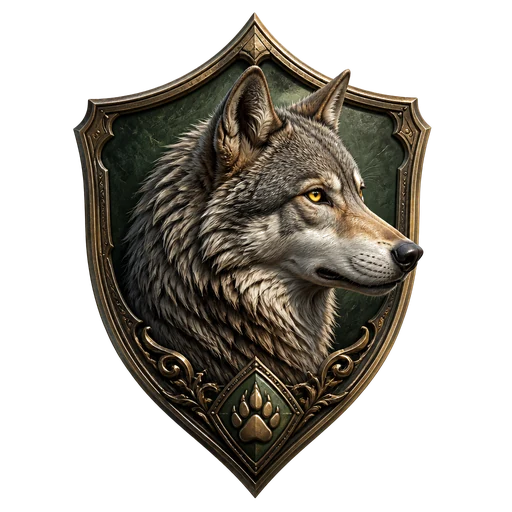
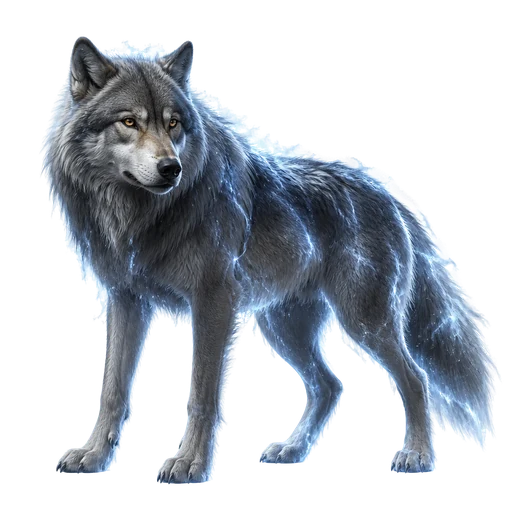
feat(combate): familiares/invocacoes refeitos com 5 variacoes cada
6 invocacoes (summon, familiar, sprite, find-steed, animal-companion,
spiritual-weapon) refeitas como retratos limpos conjurados (brilho eteral, sem
moldura heraldica — o card ja emoldura) + 4 variacoes cada = 30 imagens.
COMBAT_PNG_AVAILABLE[slug]=5 + variation picker estavel por unidade no resolver.

diff --git a/combat2/combate.html b/combat2/combate.html
@@ -1,5 +1,5 @@
 <!DOCTYPE html>
-<!-- SYNCED FROM simuladores/combate.html AT 2026-07-03T19:34:44Z — do not edit directly, edit source -->
+<!-- SYNCED FROM simuladores/combate.html AT 2026-07-03T20:53:30Z — do not edit directly, edit source -->
 
 <!-- SYNCED FROM simuladores/combate.html AT 2026-05-19T02:43:47Z — do not edit directly, edit source -->
 
@@ -17670,8 +17670,10 @@ var COMBAT_PNG_AVAILABLE = {
     'patrulheiro': 1, 'paladino': 1, 'bardo': 1, 'druida': 1, 'monge': 1,
     'feiticeiro': 1, 'bruxo': 1,
     'inimigo': 1, 'boss': 1,
-    'spiritual-weapon': 1, 'summon': 1, 'familiar': 1, 'sprite': 1,
-    'find-steed': 1, 'animal-companion': 1
+    /* Invocações: até 5 variações cada (base + -2..-5). O valor = nº de variações
+       no disco; o resolver escolhe uma estável por unidade. Auditoria 2026-07-03. */
+    'spiritual-weapon': 5, 'summon': 5, 'familiar': 5, 'sprite': 5,
+    'find-steed': 5, 'animal-companion': 5
 };
 /* Per-enemy PNG availability — keyed by SLUGIFIED enemy name.
    2026-06-12 (user "criar todas as imagens"): TODAS as 117 espécies com base
@@ -17951,9 +17953,26 @@ function _combatPortraitHTML(iconId, u, utype) {
            — pedia `.png` mas TODOS os 20 retratos de classe são `.webp` (0 png no
            dir). O onerror sempre disparava → heráldico, tanto no CARD da arena
            quanto no popup. Os retratos de inimigo (acima) já usavam `.webp`. */
-        return '<img class="c-portrait-img" src="' + base2 + slug + '.webp" ' +
-               'alt="" loading="lazy" ' +
-               'onerror="this.onerror=null;this.outerHTML=\'<svg viewBox=\\\'0 0 120 120\\\' aria-hidden=\\\'true\\\'><use href=\\\'#' + iconId + '\\\'/></svg>\'">';
+        /* Invocações: até 5 variações cada (COMBAT_PNG_AVAILABLE[slug]=nº); classes=1
+           (base). Índice ESTÁVEL por unidade (hash do id → sem flicker entre renders).
+           onerror em cascata: variação → base → heráldico (variação faltando nunca
+           quebra). Auditoria 2026-07-03. */
+        var _svc = COMBAT_PNG_AVAILABLE[slug] || 1;
+        var _svIdx = 0;
+        if (_svc > 1 && u) {
+            var _sid = String(u.id || u.uid || u.summonId || u.n || slug);
+            var _sh = 0;
+            for (var _sk = 0; _sk < _sid.length; _sk++) { _sh = ((_sh << 5) - _sh + _sid.charCodeAt(_sk)) | 0; }
+            _svIdx = Math.abs(_sh) % _svc;
+        }
+        var _sBase = base2 + slug + '.webp';
+        var _sImg = (_svIdx > 0) ? (base2 + slug + '-' + (_svIdx + 1) + '.webp') : _sBase;
+        var _sSvg = '<svg viewBox=\\\'0 0 120 120\\\' aria-hidden=\\\'true\\\'><use href=\\\'#' + iconId + '\\\'/></svg>';
+        var _sErr = (_svIdx > 0)
+            ? 'this.onerror=function(){this.onerror=null;this.outerHTML=\'' + _sSvg + '\'};this.src=\'' + _sBase + '\''
+            : 'this.onerror=null;this.outerHTML=\'' + _sSvg + '\'';
+        return '<img class="c-portrait-img" src="' + _sImg + '" ' +
+               'alt="" loading="lazy" onerror="' + _sErr + '">';
     }
     return '<svg viewBox="0 0 120 120" aria-hidden="true"><use href="#' + iconId + '"/></svg>';
 }
